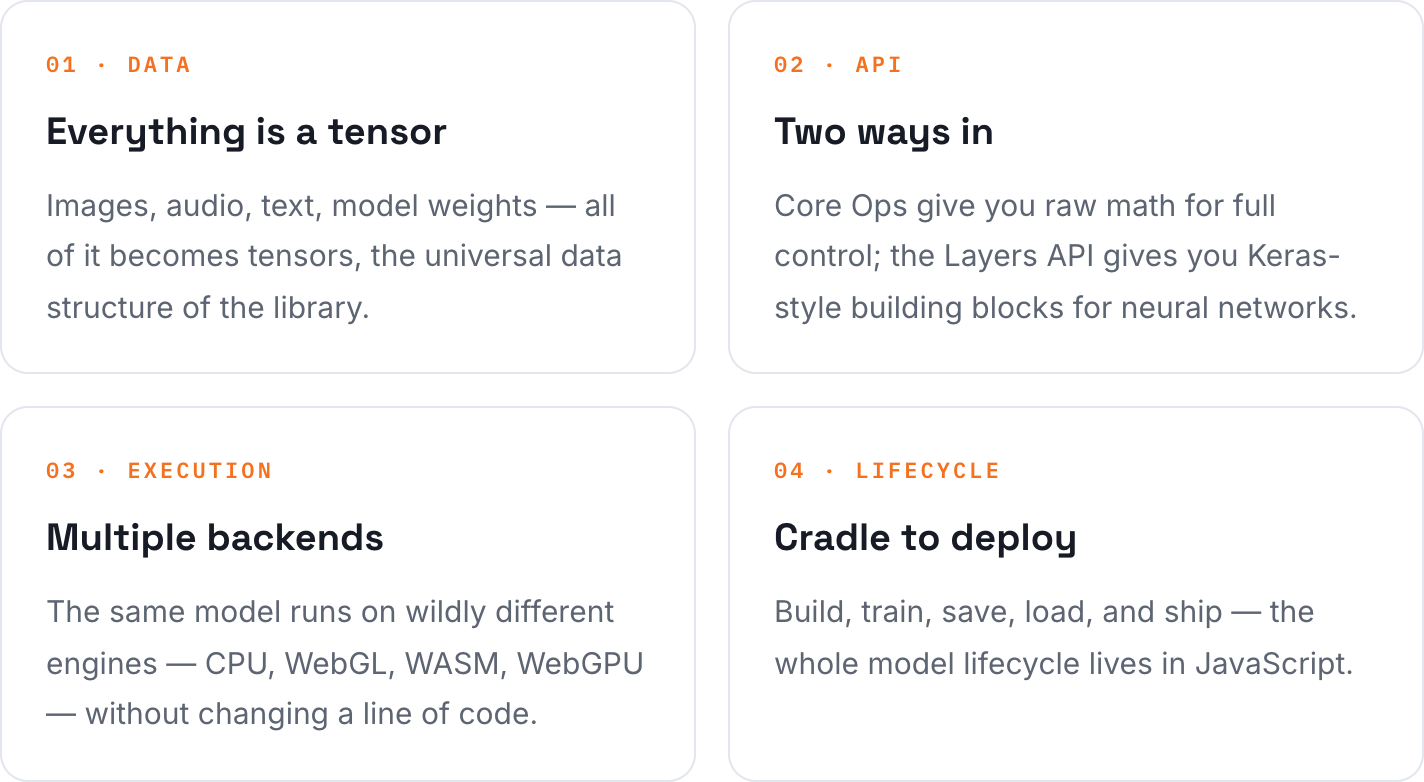
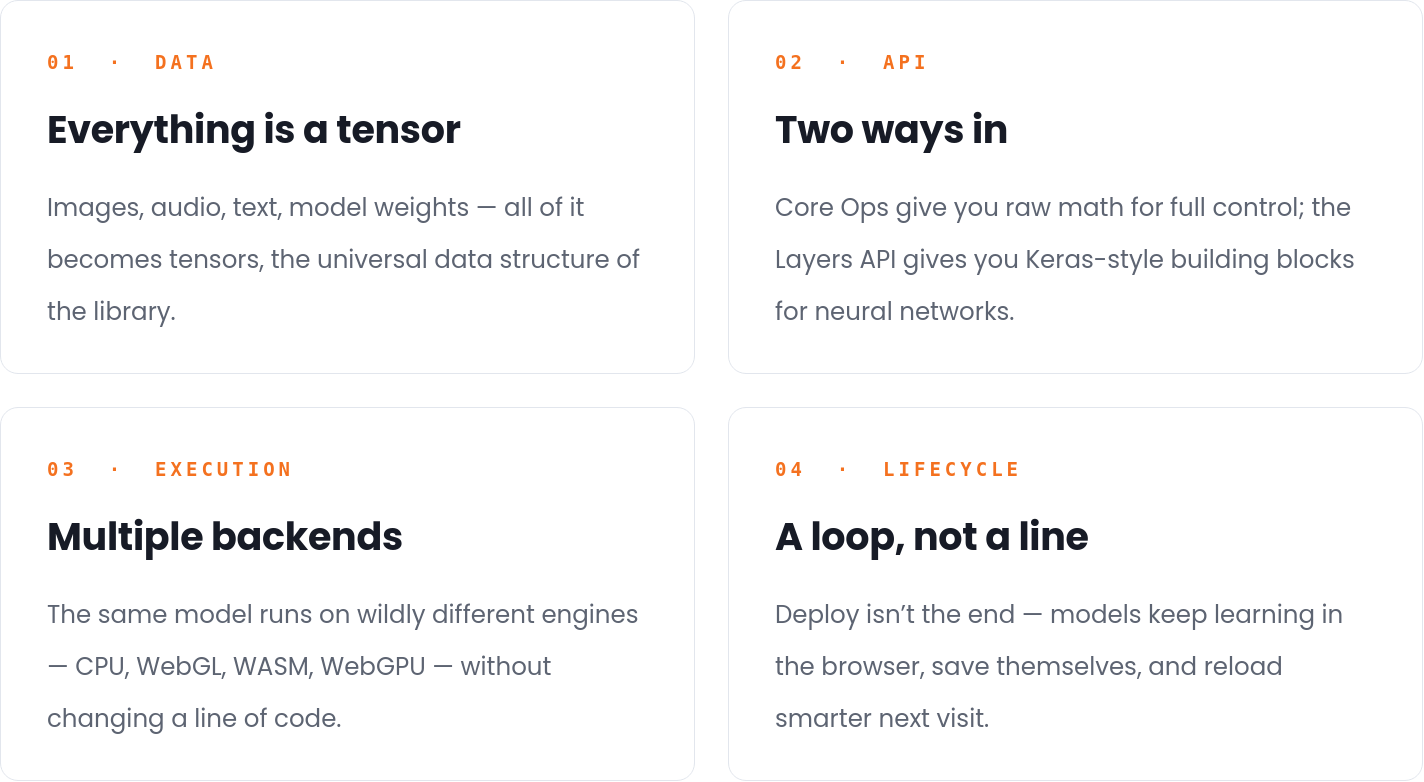
tensorflow_fix1

diff --git a/2026/tensorflowjs/index.html b/2026/tensorflowjs/index.html
@@ -36,7 +36,7 @@
         "mainEntityOfPage": {
             "@type": "WebPage",
             "@id": "http://linn-guo.github.io/2026/tensorflowjs/"
-        },"image": ["http://linn-guo.github.io/img/tensor-dimensions.svg"],"genre": "posts","keywords":["Tensorflow-js","Machine Learning","Javascript"],"wordcount":  847 ,
+        },"image": ["http://linn-guo.github.io/img/tensor-dimensions.svg"],"genre": "posts","keywords":["Tensorflow-js","Machine Learning","Javascript"],"wordcount":  738 ,
         "url": "http://linn-guo.github.io/2026/tensorflowjs/","datePublished": "2026-07-16T00:00:00+00:00","dateModified": "2026-07-16T00:00:00+00:00","license": "This work is licensed under a Creative Commons Attribution-NonCommercial 4.0 International License.","publisher": {
             "@type": "Organization",
             "name": "xxxx","logo": {
@@ -181,10 +181,9 @@
         <li><a href="#idea-1--tensors-how-tensorflowjs-represents-data">Idea 1 — Tensors: how TensorFlow.js represents data</a></li>
         <li><a href="#idea-2--apis-how-tensorflowjs-defines-the-computation">Idea 2 — APIs: how TensorFlow.js defines the computation</a></li>
         <li><a href="#idea-3--backends-where-the-computation-runs">Idea 3 — Backends: where the computation runs</a></li>
-        <li><a href="#idea-4--lifecycle-load-train-manage-save-and-deploy">Idea 4 — Lifecycle: load, train, manage, save, and deploy</a></li>
+        <li><a href="#idea-4--lifecycle-its-a-loop-not-just-a-line">Idea 4 — Lifecycle: it&rsquo;s a loop, not just a line</a></li>
       </ul>
     </li>
-    <li><a href="#takeaway-how-it-works-under-the-hood">Takeaway: how it works under the hood</a></li>
     <li><a href="#easter-egg-where-teachable-machine-fits">Easter egg: where Teachable Machine fits</a></li>
     <li><a href="#primary-sources">Primary sources</a></li>
   </ul>
@@ -199,10 +198,9 @@
         <li><a href="#idea-1--tensors-how-tensorflowjs-represents-data">Idea 1 — Tensors: how TensorFlow.js represents data</a></li>
         <li><a href="#idea-2--apis-how-tensorflowjs-defines-the-computation">Idea 2 — APIs: how TensorFlow.js defines the computation</a></li>
         <li><a href="#idea-3--backends-where-the-computation-runs">Idea 3 — Backends: where the computation runs</a></li>
-        <li><a href="#idea-4--lifecycle-load-train-manage-save-and-deploy">Idea 4 — Lifecycle: load, train, manage, save, and deploy</a></li>
+        <li><a href="#idea-4--lifecycle-its-a-loop-not-just-a-line">Idea 4 — Lifecycle: it&rsquo;s a loop, not just a line</a></li>
       </ul>
     </li>
-    <li><a href="#takeaway-how-it-works-under-the-hood">Takeaway: how it works under the hood</a></li>
     <li><a href="#easter-egg-where-teachable-machine-fits">Easter egg: where Teachable Machine fits</a></li>
     <li><a href="#primary-sources">Primary sources</a></li>
   </ul>
@@ -216,7 +214,7 @@
             <div class="post-meta-line"><svg class="icon"
     xmlns="http://www.w3.org/2000/svg" viewBox="0 0 448 512"><!-- Font Awesome Free 5.15.4 by @fontawesome - https://fontawesome.com License - https://fontawesome.com/license/free (Icons: CC BY 4.0, Fonts: SIL OFL 1.1, Code: MIT License) --><path d="M148 288h-40c-6.6 0-12-5.4-12-12v-40c0-6.6 5.4-12 12-12h40c6.6 0 12 5.4 12 12v40c0 6.6-5.4 12-12 12zm108-12v-40c0-6.6-5.4-12-12-12h-40c-6.6 0-12 5.4-12 12v40c0 6.6 5.4 12 12 12h40c6.6 0 12-5.4 12-12zm96 0v-40c0-6.6-5.4-12-12-12h-40c-6.6 0-12 5.4-12 12v40c0 6.6 5.4 12 12 12h40c6.6 0 12-5.4 12-12zm-96 96v-40c0-6.6-5.4-12-12-12h-40c-6.6 0-12 5.4-12 12v40c0 6.6 5.4 12 12 12h40c6.6 0 12-5.4 12-12zm-96 0v-40c0-6.6-5.4-12-12-12h-40c-6.6 0-12 5.4-12 12v40c0 6.6 5.4 12 12 12h40c6.6 0 12-5.4 12-12zm192 0v-40c0-6.6-5.4-12-12-12h-40c-6.6 0-12 5.4-12 12v40c0 6.6 5.4 12 12 12h40c6.6 0 12-5.4 12-12zm96-260v352c0 26.5-21.5 48-48 48H48c-26.5 0-48-21.5-48-48V112c0-26.5 21.5-48 48-48h48V12c0-6.6 5.4-12 12-12h40c6.6 0 12 5.4 12 12v52h128V12c0-6.6 5.4-12 12-12h40c6.6 0 12 5.4 12 12v52h48c26.5 0 48 21.5 48 48zm-48 346V160H48v298c0 3.3 2.7 6 6 6h340c3.3 0 6-2.7 6-6z"/></svg>&nbsp;<time datetime="2026-07-16">2026-07-16</time>&nbsp;<svg class="icon"
     xmlns="http://www.w3.org/2000/svg" viewBox="0 0 576 512"><!-- Font Awesome Free 5.15.4 by @fontawesome - https://fontawesome.com License - https://fontawesome.com/license/free (Icons: CC BY 4.0, Fonts: SIL OFL 1.1, Code: MIT License) --><path d="M402.3 344.9l32-32c5-5 13.7-1.5 13.7 5.7V464c0 26.5-21.5 48-48 48H48c-26.5 0-48-21.5-48-48V112c0-26.5 21.5-48 48-48h273.5c7.1 0 10.7 8.6 5.7 13.7l-32 32c-1.5 1.5-3.5 2.3-5.7 2.3H48v352h352V350.5c0-2.1.8-4.1 2.3-5.6zm156.6-201.8L296.3 405.7l-90.4 10c-26.2 2.9-48.5-19.2-45.6-45.6l10-90.4L432.9 17.1c22.9-22.9 59.9-22.9 82.7 0l43.2 43.2c22.9 22.9 22.9 60 .1 82.8zM460.1 174L402 115.9 216.2 301.8l-7.3 65.3 65.3-7.3L460.1 174zm64.8-79.7l-43.2-43.2c-4.1-4.1-10.8-4.1-14.8 0L436 82l58.1 58.1 30.9-30.9c4-4.2 4-10.8-.1-14.9z"/></svg>&nbsp;<time datetime="2026-07-16">2026-07-16</time>&nbsp;<svg class="icon"
-    xmlns="http://www.w3.org/2000/svg" viewBox="0 0 512 512"><!-- Font Awesome Free 5.15.4 by @fontawesome - https://fontawesome.com License - https://fontawesome.com/license/free (Icons: CC BY 4.0, Fonts: SIL OFL 1.1, Code: MIT License) --><path d="M497.9 142.1l-46.1 46.1c-4.7 4.7-12.3 4.7-17 0l-111-111c-4.7-4.7-4.7-12.3 0-17l46.1-46.1c18.7-18.7 49.1-18.7 67.9 0l60.1 60.1c18.8 18.7 18.8 49.1 0 67.9zM284.2 99.8L21.6 362.4.4 483.9c-2.9 16.4 11.4 30.6 27.8 27.8l121.5-21.3 262.6-262.6c4.7-4.7 4.7-12.3 0-17l-111-111c-4.8-4.7-12.4-4.7-17.1 0zM124.1 339.9c-5.5-5.5-5.5-14.3 0-19.8l154-154c5.5-5.5 14.3-5.5 19.8 0s5.5 14.3 0 19.8l-154 154c-5.5 5.5-14.3 5.5-19.8 0zM88 424h48v36.3l-64.5 11.3-31.1-31.1L51.7 376H88v48z"/></svg>&nbsp;847 words&nbsp;
+    xmlns="http://www.w3.org/2000/svg" viewBox="0 0 512 512"><!-- Font Awesome Free 5.15.4 by @fontawesome - https://fontawesome.com License - https://fontawesome.com/license/free (Icons: CC BY 4.0, Fonts: SIL OFL 1.1, Code: MIT License) --><path d="M497.9 142.1l-46.1 46.1c-4.7 4.7-12.3 4.7-17 0l-111-111c-4.7-4.7-4.7-12.3 0-17l46.1-46.1c18.7-18.7 49.1-18.7 67.9 0l60.1 60.1c18.8 18.7 18.8 49.1 0 67.9zM284.2 99.8L21.6 362.4.4 483.9c-2.9 16.4 11.4 30.6 27.8 27.8l121.5-21.3 262.6-262.6c4.7-4.7 4.7-12.3 0-17l-111-111c-4.8-4.7-12.4-4.7-17.1 0zM124.1 339.9c-5.5-5.5-5.5-14.3 0-19.8l154-154c5.5-5.5 14.3-5.5 19.8 0s5.5 14.3 0 19.8l-154 154c-5.5 5.5-14.3 5.5-19.8 0zM88 424h48v36.3l-64.5 11.3-31.1-31.1L51.7 376H88v48z"/></svg>&nbsp;738 words&nbsp;
                     <svg class="icon"
     xmlns="http://www.w3.org/2000/svg" viewBox="0 0 512 512"><!-- Font Awesome Free 5.15.4 by @fontawesome - https://fontawesome.com License - https://fontawesome.com/license/free (Icons: CC BY 4.0, Fonts: SIL OFL 1.1, Code: MIT License) --><path d="M256 8C119 8 8 119 8 256s111 248 248 248 248-111 248-248S393 8 256 8zm0 448c-110.5 0-200-89.5-200-200S145.5 56 256 56s200 89.5 200 200-89.5 200-200 200zm61.8-104.4l-84.9-61.7c-3.1-2.3-4.9-5.9-4.9-9.7V116c0-6.6 5.4-12 12-12h32c6.6 0 12 5.4 12 12v141.7l66.8 48.6c5.4 3.9 6.5 11.4 2.6 16.8L334.6 349c-3.9 5.3-11.4 6.5-16.8 2.6z"/></svg>&nbsp;4 minutes&nbsp;</div>
         </div><div class="featured-image"><img  loading="eager" src='/img/tensor-dimensions.svg'     ></div><div class="details toc print:!tw-block" id="toc-static"  kept="">
@@ -232,10 +230,9 @@
         <li><a href="#idea-1--tensors-how-tensorflowjs-represents-data">Idea 1 — Tensors: how TensorFlow.js represents data</a></li>
         <li><a href="#idea-2--apis-how-tensorflowjs-defines-the-computation">Idea 2 — APIs: how TensorFlow.js defines the computation</a></li>
         <li><a href="#idea-3--backends-where-the-computation-runs">Idea 3 — Backends: where the computation runs</a></li>
-        <li><a href="#idea-4--lifecycle-load-train-manage-save-and-deploy">Idea 4 — Lifecycle: load, train, manage, save, and deploy</a></li>
+        <li><a href="#idea-4--lifecycle-its-a-loop-not-just-a-line">Idea 4 — Lifecycle: it&rsquo;s a loop, not just a line</a></li>
       </ul>
     </li>
-    <li><a href="#takeaway-how-it-works-under-the-hood">Takeaway: how it works under the hood</a></li>
     <li><a href="#easter-egg-where-teachable-machine-fits">Easter egg: where Teachable Machine fits</a></li>
     <li><a href="#primary-sources">Primary sources</a></li>
   </ul>
@@ -243,7 +240,7 @@
             </div><div class="content" id="content" data-pagefind-body><p>Wait… a web page can run AI? Yep. Thanks to TensorFlow.js, your browser isn’t just for reading articles, watching videos, or endlessly scrolling social media. It can load neural networks, process webcam frames, recognize speech, and make predictions locally in real time— feeling a bit like giving your browser a brain.</p>
 <p>But how does it actually pull this off? Let’s take a look under the hood.</p>
 <h2 id="four-big-ideas-one-clever-library" class="headerLink">
-    <a href="#four-big-ideas-one-clever-library" class="header-mark"></a>1 Four big ideas, one clever library</h2><p>Everything TensorFlow.js does hangs off four core concepts. Get these, and the rest of the architecture snaps into focus.</p>
+    <a href="#four-big-ideas-one-clever-library" class="header-mark"></a>1 Four big ideas, one clever library</h2><p>Everything TensorFlow.js does hang off four core concepts. Get these, and the rest of the architecture snaps into focus.</p>
 <p><img class="tw-inline" loading="lazy" src='/img/four-ideas.png'   alt="Four idea cards: 01 Data — everything is a tensor; 02 API — two ways in (Core Ops and Layers API); 03 Execution — multiple backends; 04 Lifecycle — cradle to deploy"  ></p>
 <h3 id="idea-1--tensors-how-tensorflowjs-represents-data" class="headerLink">
     <a href="#idea-1--tensors-how-tensorflowjs-represents-data" class="header-mark"></a>1.1 Idea 1 — Tensors: how TensorFlow.js represents data</h3><p>Think of tensors as the universal language of TensorFlow.js. A number is a tensor. A list is a tensor. An image? A tensor with more dimensions. Three things make them special:</p>
@@ -251,8 +248,12 @@
 <p><img class="tw-inline" loading="lazy" src='/img/tensor-dimensions.svg'   alt="From a 1D vector to a 2D matrix to a 3D image tensor to a 4D batch of images"  ></p>
 <p><em>Same idea, more dimensions: from a single row of numbers to a whole batch of images.</em></p>
 <h3 id="idea-2--apis-how-tensorflowjs-defines-the-computation" class="headerLink">
-    <a href="#idea-2--apis-how-tensorflowjs-defines-the-computation" class="header-mark"></a>1.2 Idea 2 — APIs: how TensorFlow.js defines the computation</h3><p>Here&rsquo;s the genuinely clever part. When your code says &ldquo;multiply these matrices,&rdquo; TensorFlow.js doesn&rsquo;t have one way to do that — it has <strong>five</strong>. A backend selector inspects the environment and routes every operation to the fastest engine available, falling back gracefully when fancy hardware isn&rsquo;t around.</p>
-<p><img class="tw-inline" loading="lazy" src='/img/backend-selector.svg'   alt="Model code flows into the backend selector, which routes to WebGPU, WebGL, WASM, or CPU, producing predictions"  ></p>
+    <a href="#idea-2--apis-how-tensorflowjs-defines-the-computation" class="header-mark"></a>1.2 Idea 2 — APIs: how TensorFlow.js defines the computation</h3><p>How do you tell a tensor what to do? TensorFlow.js gives you two levels of vocabulary. The <strong>Ops API</strong> contains the verbs of numerical computing: add, multiply, reshape. The <strong>Layers API</strong>, modeled closely on Keras, combines those operations into larger building blocks for neural networks. Use Ops when you want the individual moves; use Layers when you want to assemble the model.</p>
+<p>TensorFlow.js supports <strong>eager execution</strong>: call an operation and the computation starts immediately. You can inspect results as you go, using ordinary JavaScript loops and conditions. The API describes <strong>what</strong> should happen, but says nothing about the machine that will make it happen. So where actually performs the calculation?</p>
+<p><em>Two levels of vocabulary, one computation underneath.</em></p>
+<h3 id="idea-3--backends-where-the-computation-runs" class="headerLink">
+    <a href="#idea-3--backends-where-the-computation-runs" class="header-mark"></a>1.3 Idea 3 — Backends: where the computation runs</h3><p>Here&rsquo;s the genuinely clever part. When your code says &ldquo;multiply these matrices,&rdquo; TensorFlow.js doesn&rsquo;t have one place to do that — it has <strong>five</strong>. A backend selector inspects the environment and routes every operation to the fastest engine available, falling back gracefully when fancy hardware isn&rsquo;t around.</p>
+<p><img class="tw-inline" loading="lazy" src='/img/backend-selector.svg'   alt="Flowchart: model code flows into the backend selector, which routes to WebGPU, WebGL, WASM, or CPU, producing predictions"  ></p>
 <p><em>Write the model once. The selector picks the engine at runtime.</em></p>
 
 <div class="table-wrapper">
@@ -283,7 +284,7 @@
         <tr>
             <td style="text-align: ">CPU</td>
             <td style="text-align: ">The universal fallback</td>
-            <td style="text-align: ">Always works</td>
+            <td style="text-align: ">Compatibility, always works</td>
         </tr>
         <tr>
             <td style="text-align: ">Node.js</td>
@@ -293,122 +294,16 @@
     </tbody>
   </table>
 </div>
-<h3 id="idea-3--backends-where-the-computation-runs" class="headerLink">
-    <a href="#idea-3--backends-where-the-computation-runs" class="header-mark"></a>1.3 Idea 3 — Backends: where the computation runs</h3><p>Here&rsquo;s the rite of passage every TensorFlow.js developer goes through: your demo runs beautifully for two minutes, then your GPU memory quietly fills up and the tab keels over.</p>
-<p>Why? Because tensors <strong>aren&rsquo;t automatically garbage collected</strong>. Many of them live in GPU memory, which JavaScript&rsquo;s garbage collector can&rsquo;t see. Every intermediate tensor you create sticks around until you explicitly let it go.</p>
-<p>The fix is delightfully simple: wrap temporary work in <code>tf.tidy()</code>, and it sweeps up every intermediate tensor when the function returns. For tensors you manage by hand, call <code>dispose()</code> when you&rsquo;re done.</p>
-<div class="code-block highlight is-open show-line-numbers  tw-group tw-my-2">
-  <div class="
-    
-    tw-flex 
-    tw-flex-row
-    tw-flex-1 
-    tw-justify-between 
-    tw-w-full tw-bg-bgColor-secondary
-    ">      
-    <button 
-      class="
-        code-block-button
-        tw-mx-2 
-        tw-flex
-        tw-flex-row
-        tw-flex-1"
-      aria-hidden="true">
-          <div class="group-[.is-open]:tw-rotate-90 tw-transition-[transform] tw-duration-500 tw-ease-in-out print:!tw-hidden tw-w-min tw-h-min tw-my-1 tw-mx-1"><svg class="icon"
-    xmlns="http://www.w3.org/2000/svg" viewBox="0 0 320 512"><!-- Font Awesome Free 5.15.4 by @fontawesome - https://fontawesome.com License - https://fontawesome.com/license/free (Icons: CC BY 4.0, Fonts: SIL OFL 1.1, Code: MIT License) --><path d="M285.476 272.971L91.132 467.314c-9.373 9.373-24.569 9.373-33.941 0l-22.667-22.667c-9.357-9.357-9.375-24.522-.04-33.901L188.505 256 34.484 101.255c-9.335-9.379-9.317-24.544.04-33.901l22.667-22.667c9.373-9.373 24.569-9.373 33.941 0L285.475 239.03c9.373 9.372 9.373 24.568.001 33.941z"/></svg></div>
-          <p class="tw-select-none !tw-my-1">javascript</p>
-      </button>
-
-   <div class="tw-flex">
-      <button 
-        class="
-          line-number-button
-          tw-mx-2 
-          tw-hidden 
-          group-[.is-open]:tw-block 
-          group-[.show-line-numbers]:tw-text-fgColor-link 
-          print:!tw-hidden" 
-        title="Toggle line numbers"><svg class="icon"
-    xmlns="http://www.w3.org/2000/svg" viewBox="0 0 512 512"><!-- Font Awesome Free 5.15.4 by @fontawesome - https://fontawesome.com License - https://fontawesome.com/license/free (Icons: CC BY 4.0, Fonts: SIL OFL 1.1, Code: MIT License) --><path d="M61.77 401l17.5-20.15a19.92 19.92 0 0 0 5.07-14.19v-3.31C84.34 356 80.5 352 73 352H16a8 8 0 0 0-8 8v16a8 8 0 0 0 8 8h22.83a157.41 157.41 0 0 0-11 12.31l-5.61 7c-4 5.07-5.25 10.13-2.8 14.88l1.05 1.93c3 5.76 6.29 7.88 12.25 7.88h4.73c10.33 0 15.94 2.44 15.94 9.09 0 4.72-4.2 8.22-14.36 8.22a41.54 41.54 0 0 1-15.47-3.12c-6.49-3.88-11.74-3.5-15.6 3.12l-5.59 9.31c-3.72 6.13-3.19 11.72 2.63 15.94 7.71 4.69 20.38 9.44 37 9.44 34.16 0 48.5-22.75 48.5-44.12-.03-14.38-9.12-29.76-28.73-34.88zM496 224H176a16 16 0 0 0-16 16v32a16 16 0 0 0 16 16h320a16 16 0 0 0 16-16v-32a16 16 0 0 0-16-16zm0-160H176a16 16 0 0 0-16 16v32a16 16 0 0 0 16 16h320a16 16 0 0 0 16-16V80a16 16 0 0 0-16-16zm0 320H176a16 16 0 0 0-16 16v32a16 16 0 0 0 16 16h320a16 16 0 0 0 16-16v-32a16 16 0 0 0-16-16zM16 160h64a8 8 0 0 0 8-8v-16a8 8 0 0 0-8-8H64V40a8 8 0 0 0-8-8H32a8 8 0 0 0-7.14 4.42l-8 16A8 8 0 0 0 24 64h8v64H16a8 8 0 0 0-8 8v16a8 8 0 0 0 8 8zm-3.91 160H80a8 8 0 0 0 8-8v-16a8 8 0 0 0-8-8H41.32c3.29-10.29 48.34-18.68 48.34-56.44 0-29.06-25-39.56-44.47-39.56-21.36 0-33.8 10-40.46 18.75-4.37 5.59-3 10.84 2.8 15.37l8.58 6.88c5.61 4.56 11 2.47 16.12-2.44a13.44 13.44 0 0 1 9.46-3.84c3.33 0 9.28 1.56 9.28 8.75C51 248.19 0 257.31 0 304.59v4C0 316 5.08 320 12.09 320z"/></svg></button>
-
-      <button 
-        class="
-          wrap-code-button
-          tw-select-none 
-          tw-mx-2 
-          tw-hidden 
-          group-[.is-open]:tw-block 
-          group-[.is-wrap]:tw-text-fgColor-link 
-          print:!tw-hidden" 
-        title="Toggle code wrap"><svg class="icon"
-    xmlns="http://www.w3.org/2000/svg" viewBox="0 0 448 512"><!-- Font Awesome Free 5.15.4 by @fontawesome - https://fontawesome.com License - https://fontawesome.com/license/free (Icons: CC BY 4.0, Fonts: SIL OFL 1.1, Code: MIT License) --><path d="M16 132h416c8.837 0 16-7.163 16-16V76c0-8.837-7.163-16-16-16H16C7.163 60 0 67.163 0 76v40c0 8.837 7.163 16 16 16zm0 160h416c8.837 0 16-7.163 16-16v-40c0-8.837-7.163-16-16-16H16c-8.837 0-16 7.163-16 16v40c0 8.837 7.163 16 16 16zm0 160h416c8.837 0 16-7.163 16-16v-40c0-8.837-7.163-16-16-16H16c-8.837 0-16 7.163-16 16v40c0 8.837 7.163 16 16 16z"/></svg></button>
-      
-      <button 
-        class="
-          copy-code-button
-          tw-select-none
-          tw-mx-2 
-          tw-hidden
-          group-[.is-open]:tw-block
-          hover:tw-text-fgColor-link 
-          print:!tw-hidden"
-        title="Copy code">
-          <span class="copy-icon tw-block"><svg class="icon"
-    xmlns="http://www.w3.org/2000/svg" viewBox="0 0 448 512"><!-- Font Awesome Free 5.15.4 by @fontawesome - https://fontawesome.com License - https://fontawesome.com/license/free (Icons: CC BY 4.0, Fonts: SIL OFL 1.1, Code: MIT License) --><path d="M433.941 65.941l-51.882-51.882A48 48 0 0 0 348.118 0H176c-26.51 0-48 21.49-48 48v48H48c-26.51 0-48 21.49-48 48v320c0 26.51 21.49 48 48 48h224c26.51 0 48-21.49 48-48v-48h80c26.51 0 48-21.49 48-48V99.882a48 48 0 0 0-14.059-33.941zM266 464H54a6 6 0 0 1-6-6V150a6 6 0 0 1 6-6h74v224c0 26.51 21.49 48 48 48h96v42a6 6 0 0 1-6 6zm128-96H182a6 6 0 0 1-6-6V54a6 6 0 0 1 6-6h106v88c0 13.255 10.745 24 24 24h88v202a6 6 0 0 1-6 6zm6-256h-64V48h9.632c1.591 0 3.117.632 4.243 1.757l48.368 48.368a6 6 0 0 1 1.757 4.243V112z"/></svg></span>
-          <span class="check-icon tw-hidden"><svg class="icon"
-    xmlns="http://www.w3.org/2000/svg" viewBox="0 0 512 512"><!-- Font Awesome Free 5.15.4 by @fontawesome - https://fontawesome.com License - https://fontawesome.com/license/free (Icons: CC BY 4.0, Fonts: SIL OFL 1.1, Code: MIT License) --><path d="M173.898 439.404l-166.4-166.4c-9.997-9.997-9.997-26.206 0-36.204l36.203-36.204c9.997-9.998 26.207-9.998 36.204 0L192 312.69 432.095 72.596c9.997-9.997 26.207-9.997 36.204 0l36.203 36.204c9.997 9.997 9.997 26.206 0 36.204l-294.4 294.401c-9.998 9.997-26.207 9.997-36.204-.001z"/></svg></span>
-      </button>
-        
-      <button 
-        class="
-          tw-select-none 
-          tw-mx-2 
-          tw-block 
-          group-[.is-open]:tw-hidden 
-          print:!tw-hidden" 
-        disabled
-        aria-hidden="true"><svg class="icon"
-    xmlns="http://www.w3.org/2000/svg" viewBox="0 0 512 512"><!-- Font Awesome Free 5.15.4 by @fontawesome - https://fontawesome.com License - https://fontawesome.com/license/free (Icons: CC BY 4.0, Fonts: SIL OFL 1.1, Code: MIT License) --><path d="M328 256c0 39.8-32.2 72-72 72s-72-32.2-72-72 32.2-72 72-72 72 32.2 72 72zm104-72c-39.8 0-72 32.2-72 72s32.2 72 72 72 72-32.2 72-72-32.2-72-72-72zm-352 0c-39.8 0-72 32.2-72 72s32.2 72 72 72 72-32.2 72-72-32.2-72-72-72z"/></svg></button>
-    </div>
-  </div>
-  <pre style="counter-reset: codeblock;" class="tw-block tw-m-0 tw-p-0"><code 
-    id="codeblock-id-1" 
-    class="
-      chroma 
-      !tw-block 
-      tw-p-0
-      tw-m-0
-      tw-transition-[max-height] 
-      tw-duration-500 
-      tw-ease-in-out 
-      group-[.is-closed]:!tw-max-h-0 
-      group-[.is-wrap]:tw-text-wrap
-      tw-overflow-y-hidden
-      tw-overflow-x-auto
-      tw-scrollbar-thin
-      "><span class="line"><span class="cl"><span class="c1">// Without tidy: leaks `a` and `b` into GPU memory 
-</span></span></span><span class="line"><span class="cl"><span class="c1">// With tidy: intermediates are cleaned up automatically 
-</span></span></span><span class="line"><span class="cl"><span class="kr">const</span> <span class="nx">result</span> <span class="o">=</span> <span class="nx">tf</span><span class="p">.</span><span class="nx">tidy</span><span class="p">(()</span> <span class="p">=&gt;</span> <span class="p">{</span>
-</span></span><span class="line"><span class="cl">  <span class="kr">const</span> <span class="nx">a</span> <span class="o">=</span> <span class="nx">tf</span><span class="p">.</span><span class="nx">tensor</span><span class="p">([</span><span class="mi">1</span><span class="p">,</span> <span class="mi">2</span><span class="p">,</span> <span class="mi">3</span><span class="p">]);</span>
-</span></span><span class="line"><span class="cl">  <span class="kr">const</span> <span class="nx">b</span> <span class="o">=</span> <span class="nx">a</span><span class="p">.</span><span class="nx">square</span><span class="p">();</span>   <span class="c1">// intermediate — swept up
-</span></span></span><span class="line"><span class="cl">  <span class="k">return</span> <span class="nx">b</span><span class="p">.</span><span class="nx">sum</span><span class="p">();</span>          <span class="c1">// survives the tidy
-</span></span></span><span class="line"><span class="cl"><span class="p">});</span></span></span></code></pre>
-</div>
-<blockquote>
-  <p><strong>Rule of thumb:</strong> if you created a tensor and didn&rsquo;t return it, someone has to clean it up — and that someone is <code>tf.tidy()</code>, or it&rsquo;s you.</p>
-
-</blockquote><h3 id="idea-4--lifecycle-load-train-manage-save-and-deploy" class="headerLink">
-    <a href="#idea-4--lifecycle-load-train-manage-save-and-deploy" class="header-mark"></a>1.4 Idea 4 — Lifecycle: load, train, manage, save, and deploy</h3><p>You&rsquo;ve got two paths to a working model. Build and train it <strong>entirely in JavaScript</strong>, or <strong>import a trained TensorFlow or Keras model</strong> from the Python world. Either way, after conversion a deployed model is refreshingly boring: a <code>model.json</code> file describing the architecture, plus binary weight shards. Static files. Host them anywhere you&rsquo;d host an image.</p>
+<h3 id="idea-4--lifecycle-its-a-loop-not-just-a-line" class="headerLink">
+    <a href="#idea-4--lifecycle-its-a-loop-not-just-a-line" class="header-mark"></a>1.4 Idea 4 — Lifecycle: it&rsquo;s a loop, not just a line</h3><p>Frame it as: you&rsquo;d expect a lifecycle to be a straight line — train, convert, deploy, done. TensorFlow.js makes it a loop. Deployment isn&rsquo;t the end, because the deployed model can keep training on live user data, save its improved self to browser storage, and pick up where it left off next visit. The point of the section becomes: the browser isn&rsquo;t just the destination, it&rsquo;s also a training ground.</p>
 <p><img class="tw-inline" loading="lazy" src='/img/deployment-pipeline.svg'   alt="Pipeline: train, convert, model.json plus weight shards, browser, prediction"  ></p>
 <p><em>Train anywhere → convert once → serve as static files → predict in the tab.</em></p>
-<h2 id="takeaway-how-it-works-under-the-hood" class="headerLink">
-    <a href="#takeaway-how-it-works-under-the-hood" class="header-mark"></a>2 Takeaway: how it works under the hood</h2><p>TensorFlow.js isn’t just “TensorFlow in JavaScript.” It’s a system where each layer has a clear responsibility. Tensors represent data, the APIs describe computations, backends execute those computations on available hardware, and lifecycle tools manage models from training to deployment. Together, these layers let you write a few lines of JavaScript while TensorFlow.js handles the messy details of memory management, hardware acceleration, and model execution behind the scenes.</p>
 <h2 id="easter-egg-where-teachable-machine-fits" class="headerLink">
-    <a href="#easter-egg-where-teachable-machine-fits" class="header-mark"></a>3 Easter egg: where Teachable Machine fits</h2><p>Teachable Machine is one of those tools. It hides almost all of TensorFlow.js behind a friendly interface: you collect examples, label classes, and click Train. Behind those buttons, TensorFlow.js converts your data into tensors, fine-tunes a pre-trained model, executes the computation using the browser’s available backend, and exports a model.json file together with its weights. That&rsquo;s how the magic works!</p>
+    <a href="#easter-egg-where-teachable-machine-fits" class="header-mark"></a>2 Easter egg: where Teachable Machine fits</h2><p>Teachable Machine is one of those tools. It hides almost all of TensorFlow.js behind a friendly interface: you collect examples, label classes, and click Train. Behind those buttons, TensorFlow.js converts your data into tensors, fine-tunes a pre-trained model, executes the computation using the browser’s available backend, and exports a model.json file together with its weights. That&rsquo;s how the magic works!</p>
 <p>Next, let&rsquo;s see another black box behind TM - transform learning!</p>
 <p>Cheers!</p>
 <h2 id="primary-sources" class="headerLink">
-    <a href="#primary-sources" class="header-mark"></a>4 Primary sources</h2><ul>
+    <a href="#primary-sources" class="header-mark"></a>3 Primary sources</h2><ul>
 <li>
 <p><a href="https://arxiv.org/pdf/1901.05350" target="_blank" rel="noopener noreferrer">Smilkov, Thorat, Assogba, et al. (2019). <em>TensorFlow.js: Machine Learning for the Web and Beyond</em> (arXiv:1901.05350)</a> — The official TensorFlow.js paper introducing its architecture, tensors, APIs, and execution backends.</p>
 </li>

diff --git a/index.html b/index.html
@@ -45,7 +45,7 @@
         "mainEntityOfPage": {
             "@type": "WebPage",
             "@id": "http://linn-guo.github.io/2026/tensorflowjs/"
-        },"image": ["http://linn-guo.github.io/images/Apple-Devices-Preview.png"],"genre": "posts","keywords":["Tensorflow-js","Machine Learning","Javascript"],"wordcount":  847 ,
+        },"image": ["http://linn-guo.github.io/images/Apple-Devices-Preview.png"],"genre": "posts","keywords":["Tensorflow-js","Machine Learning","Javascript"],"wordcount":  738 ,
         "url": "http://linn-guo.github.io/2026/tensorflowjs/","datePublished": "2026-07-16T00:00:00+00:00","dateModified": "2026-07-16T00:00:00+00:00","license": "This work is licensed under a Creative Commons Attribution-NonCommercial 4.0 International License.","publisher": {
             "@type": "Organization",
             "name": "LinJing"},"author": {

diff --git a/2026/tensorflowjs/index.md b/2026/tensorflowjs/index.md
@@ -9,7 +9,7 @@ But how does it actually pull this off? Let’s take a look under the hood.
 
 ## Four big ideas, one clever library
 
-Everything TensorFlow.js does hangs off four core concepts. Get these, and the rest of the architecture snaps into focus.
+Everything TensorFlow.js does hang off four core concepts. Get these, and the rest of the architecture snaps into focus.
 
 ![Four idea cards: 01 Data — everything is a tensor; 02 API — two ways in (Core Ops and Layers API); 03 Execution — multiple backends; 04 Lifecycle — cradle to deploy](/img/four-ideas.png) 
 
@@ -25,54 +25,35 @@ They're **immutable** — every operation creates a new tensor rather than modif
 
 ### Idea 2 — APIs: how TensorFlow.js defines the computation
 
-Here's the genuinely clever part. When your code says "multiply these matrices," TensorFlow.js doesn't have one way to do that — it has **five**. A backend selector inspects the environment and routes every operation to the fastest engine available, falling back gracefully when fancy hardware isn't around.
+How do you tell a tensor what to do? TensorFlow.js gives you two levels of vocabulary. The **Ops API** contains the verbs of numerical computing: add, multiply, reshape. The **Layers API**, modeled closely on Keras, combines those operations into larger building blocks for neural networks. Use Ops when you want the individual moves; use Layers when you want to assemble the model.
 
-![Model code flows into the backend selector, which routes to WebGPU, WebGL, WASM, or CPU, producing predictions](/img/backend-selector.svg)
+TensorFlow.js supports **eager execution**: call an operation and the computation starts immediately. You can inspect results as you go, using ordinary JavaScript loops and conditions. The API describes **what** should happen, but says nothing about the machine that will make it happen. So where actually performs the calculation?
+
+*Two levels of vocabulary, one computation underneath.*
+
+### Idea 3 — Backends: where the computation runs
+
+Here's the genuinely clever part. When your code says "multiply these matrices," TensorFlow.js doesn't have one place to do that — it has **five**. A backend selector inspects the environment and routes every operation to the fastest engine available, falling back gracefully when fancy hardware isn't around.
+
+![Flowchart: model code flows into the backend selector, which routes to WebGPU, WebGL, WASM, or CPU, producing predictions](/img/backend-selector.svg)
 
 *Write the model once. The selector picks the engine at runtime.*
 
 | Backend | Think of it as | Best for |
-|---|---|---|
-| WebGPU | Modern GPU compute, no disguises | The fastest option, where supported |
-| WebGL | A GPU smuggled in via graphics shaders | Most browsers today |
-| WASM | A supercharged CPU | Small models, wide compatibility |
-| CPU | The universal fallback | Always works |
+|---------|----------------|----------|
+| WebGPU  | Modern GPU compute, no disguises | The fastest option, where supported |
+| WebGL   | A GPU smuggled in via graphics shaders | Most browsers today |
+| WASM    | A supercharged CPU | Small models, wide compatibility |
+| CPU     | The universal fallback | Compatibility, always works |
 | Node.js | Native TensorFlow, no browser needed | Servers |
 
-### Idea 3 — Backends: where the computation runs
+### Idea 4 — Lifecycle: it's a loop, not just a line
 
-Here's the rite of passage every TensorFlow.js developer goes through: your demo runs beautifully for two minutes, then your GPU memory quietly fills up and the tab keels over.
-
-Why? Because tensors **aren't automatically garbage collected**. Many of them live in GPU memory, which JavaScript's garbage collector can't see. Every intermediate tensor you create sticks around until you explicitly let it go.
-
-The fix is delightfully simple: wrap temporary work in `tf.tidy()`, and it sweeps up every intermediate tensor when the function returns. For tensors you manage by hand, call `dispose()` when you're done.
-
-```javascript
-// Without tidy: leaks `a` and `b` into GPU memory 
-// With tidy: intermediates are cleaned up automatically 
-const result = tf.tidy(() => {
-  const a = tf.tensor([1, 2, 3]);
-  const b = a.square();   // intermediate — swept up
-  return b.sum();          // survives the tidy
-});
-```
-
-> **Rule of thumb:** if you created a tensor and didn't return it, someone has to clean it up — and that someone is `tf.tidy()`, or it's you.
-
-
-### Idea 4 — Lifecycle: load, train, manage, save, and deploy
-
-You've got two paths to a working model. Build and train it **entirely in JavaScript**, or **import a trained TensorFlow or Keras model** from the Python world. Either way, after conversion a deployed model is refreshingly boring: a `model.json` file describing the architecture, plus binary weight shards. Static files. Host them anywhere you'd host an image.
+Frame it as: you'd expect a lifecycle to be a straight line — train, convert, deploy, done. TensorFlow.js makes it a loop. Deployment isn't the end, because the deployed model can keep training on live user data, save its improved self to browser storage, and pick up where it left off next visit. The point of the section becomes: the browser isn't just the destination, it's also a training ground.
 
 ![Pipeline: train, convert, model.json plus weight shards, browser, prediction](/img/deployment-pipeline.svg)
 
 *Train anywhere → convert once → serve as static files → predict in the tab.*
-
-
-## Takeaway: how it works under the hood
-
-
-TensorFlow.js isn’t just “TensorFlow in JavaScript.” It’s a system where each layer has a clear responsibility. Tensors represent data, the APIs describe computations, backends execute those computations on available hardware, and lifecycle tools manage models from training to deployment. Together, these layers let you write a few lines of JavaScript while TensorFlow.js handles the messy details of memory management, hardware acceleration, and model execution behind the scenes.
 
 ## Easter egg: where Teachable Machine fits
 